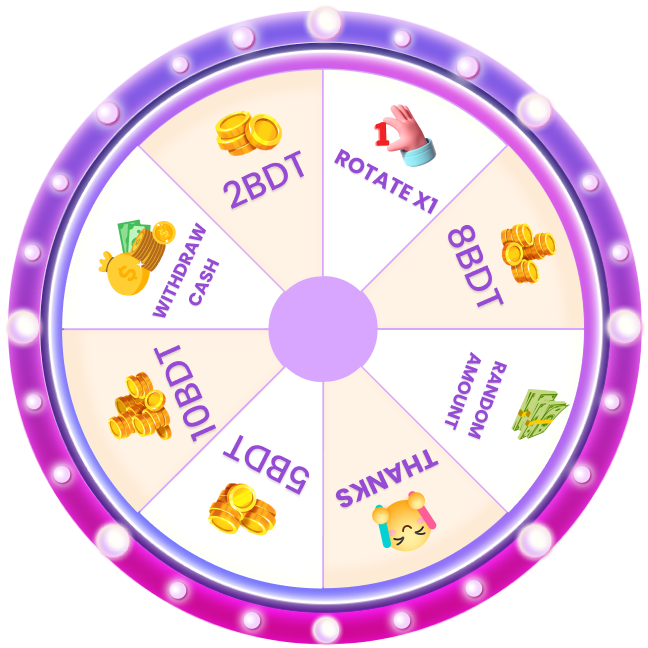
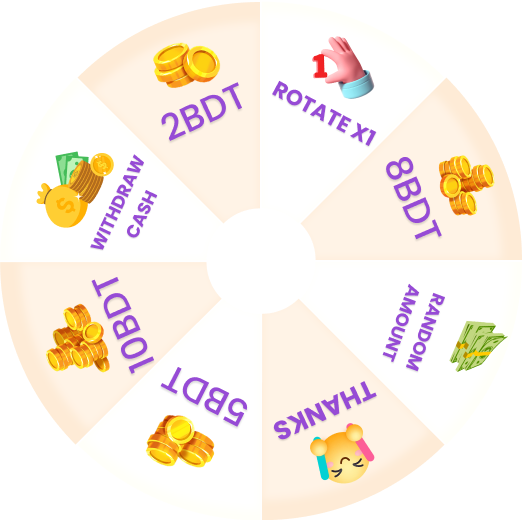
feat: [bgd] Draft for new wheel promo

diff --git a/bgd-static-v1/src/components/hotpromo/referSpinWheel/ReferSpinWheel.vue b/bgd-static-v1/src/components/hotpromo/referSpinWheel/ReferSpinWheel.vue
@@ -5,7 +5,17 @@
             <div class="balance">
               <div>当前额度(BDT)</div>
               <div class="balance-info">
-                  <div class="amount">95.13</div><img class="money-icon" src="../../../assets/images/promotion/hotpromo/refer-spinwheel/money-pile-icon.png"/>
+                  <div class="amount">
+                    <svg class="gradient-amount-wrapper" preserveAspectRatio='xMinYMin' xmlns="http://www.w3.org/2000/svg">
+                      <defs>
+                          <linearGradient id="gradientAmount" gradientTransform="rotate(90)">
+                              <stop offset="0%"  stop-color="#FDEE4F"/>
+                              <stop offset="100%" stop-color="#FF953E"/>
+                          </linearGradient>
+                      </defs>
+                      <text id="test"  x="0" y="45" class="amount">95.13</text>
+                  </svg>
+                  </div><img class="money-icon" src="../../../assets/images/promotion/hotpromo/refer-spinwheel/money-pile-icon.png"/>
               </div>
           </div>
           <div class="primary-bg withdraw-btn center">
@@ -140,17 +150,7 @@
     </div>
   
     <q-dialog v-model="showPrizePopup" backdrop-filter="none">
-      <div class="prize-popup">
-        <q-btn icon="close" flat round dense v-close-popup class="q-ml-auto" />
-        <div class="prize-gold">
-          <img src="./../../../assets/images/promotion/hotpromo/refer-spinwheel/prize-gold.png" width="80" />
-          <div>{{ $t("hotPromo.referWheel.congratulations") }}</div>
-        </div>
-  
-        <div class="prize-amount">{{ store.currency.label }} {{ prizePopupBonusAmt }}</div>
-  
-        <q-btn no-caps unelevated class="btn-primary" @click="showPrizePopup = false">{{ $t("btn.confirm") }}</q-btn>
-      </div>
+      <PrizePopup />
     </q-dialog>
   </template>
   <script setup>
@@ -160,6 +160,7 @@
   import moment from "moment";
   import { useI18n } from "vue-i18n";
   import { userStore } from "src/stores";
+import PrizePopup from "./PrizePopup.vue";
   
   const { t } = useI18n();
   const $q = useQuasar();
@@ -179,7 +180,7 @@
   
   const spinButtonDisable = ref(false);
   const degreesToStopAt = ref([]);
-  const showPrizePopup = ref(false);
+  const showPrizePopup = ref(true);
   const prizePopupBonusAmt = ref();
   const remainingDraws = ref(0);
   const winnersList = ref([]);
@@ -278,24 +279,24 @@
   
   const spinWheel = () => {
     //FOr TesTING START
-    // const res = {
-    //   data: {
-    //     bonusAmount: 999999,
-    //     availableSpin: 0
-    //   }
-    // }
-    // var bonusIndex = res.data.bonusAmount;
-    // if (res.data.type === "CONSOLATION") {
-    //   bonusIndex = -1;
-    // }
-    // const prizeIndex = SPIN_WHEEL_PRIZES.findIndex((prize) => prize === bonusIndex);
+    const res = {
+      data: {
+        bonusAmount: 999999,
+        availableSpin: 0
+      }
+    }
+    var bonusIndex = res.data.bonusAmount;
+    if (res.data.type === "CONSOLATION") {
+      bonusIndex = -1;
+    }
+    const prizeIndex = SPIN_WHEEL_PRIZES.findIndex((prize) => prize === bonusIndex);
     
-    // spin(prizeIndex, () => {
-    //   showPrizePopup.value = true;
-    //   prizePopupBonusAmt.value = res.data.bonusAmount;
-    //   remainingDraws.value = res.data.availableSpin;
-    // });
-    // return;
+    spin(prizeIndex, () => {
+      showPrizePopup.value = true;
+      prizePopupBonusAmt.value = res.data.bonusAmount;
+      remainingDraws.value = res.data.availableSpin;
+    });
+    return;
     //FOr TesTING END
   
     if (spinButtonDisable.value === true) {
@@ -418,15 +419,23 @@
             display: flex;
             align-items: center;
             gap: 15px;
-            
-            .amount {
-                color: #FE9D32;
-                font-size: 35px;
+
+            .gradient-amount-wrapper {
+              max-height: 55px;
+              max-width: 130px;
+
+              .amount {
+                font-size: 50px;
+                fill:url(#gradientAmount);
+                text-shadow: 3px 3px #A00022;
+                font-family: 'Poppins';
+                font-weight: 500;
+              }
+
             }
 
             .money-icon {
-              width: 42px;
-              height: 36px;
+              width: 55px;
             }
           }
         }
@@ -645,7 +654,7 @@
     margin: 0 auto;
     background: url(../../../assets/images/promotion/hotpromo/refer-spinwheel/spin-wheel-frame.png) no-repeat center
       center;
-    background-size: 115%;
+    background-size: 100%;
   }
   
   .wheel-frame {
@@ -671,10 +680,10 @@
   .spin-wheel {
     position: absolute;
     z-index: 2;
-    top: 0px;
-    left: 0px;
-    width: 330px;
-    height: 330px;
+    top: 35px;
+    left: 35px;
+    width: 260px;
+    height: 260px;
   }
   
   .wheel-bg {

diff --git a/bgd-static-v1/src/components/hotpromo/referSpinWheel/PrizePopup.vue b/bgd-static-v1/src/components/hotpromo/referSpinWheel/PrizePopup.vue
@@ -1,0 +1,159 @@
+<template>
+    <div class="congrats-container">
+      <q-btn icon="close" round dense v-close-popup class="congrats-close" />
+      <div class="congrats-header"><img src="../../../assets/images/index/modal/congrats-header.png" /></div>
+      <div class="congrats-coupons">
+        <img class="light-source" src="./../../../assets/images/promotion/hotpromo/refer-spinwheel/light-source.png" />
+        <div class="congrats-highlight">
+            <img class="money-icon" src="../../../assets/images/promotion/hotpromo/refer-spinwheel/money-pile-icon.png"/>
+            <svg class="gradient-amount-wrapper" preserveAspectRatio='xMinYMin' xmlns="http://www.w3.org/2000/svg">
+                <defs>
+                    <linearGradient id="gradientAmount" gradientTransform="rotate(90)">
+                        <stop offset="0%"  stop-color="#FDEE4F"/>
+                        <stop offset="100%" stop-color="#FF953E"/>
+                    </linearGradient>
+                </defs>
+                <text id="test"  x="0" y="43" class="amount">300</text>
+            </svg>
+        </div>
+    </div>
+
+      <div class="congrats-title">{{ $t("hotPromo.referWheel.withdrawSuccessfully") }}</div>
+
+      <div class="congrats-button">
+        <router-link to="/promo?name=bgd-register-claim-bonus">
+          <q-btn no-caps unelevated class="recharge-btn" :loading="false">
+            {{ $t("hotPromo.referWheel.recharge") }}
+          </q-btn>
+        </router-link>
+      </div>
+    </div>
+  </template>
+  
+  <script setup></script>
+  
+  <style lang="scss" scoped>
+
+.gradient-amount-wrapper {
+    max-height: 55px;
+    max-width: 100px;
+
+    .amount {
+        font-size: 50px;
+        fill:url(#gradientAmount);
+        text-shadow: 3px 3px #A00022;
+        font-family: 'Poppins';
+        font-weight: 700;
+    }
+}
+  .congrats-button {
+    position: absolute;
+    bottom: -60px;
+    left: 50%;
+    transform: translateX(-50%);
+    white-space: nowrap;
+  }
+  .congrats-wrapper {
+    overflow: hidden;
+    display: flex;
+    flex-direction: column;
+    gap: 20px;
+    align-items: center;
+  }
+  .congrats-container {
+    background-color: #1e371f;
+    border: 1px solid #337e3a;
+    border-radius: 10px !important;
+    max-width: 400px;
+    width: 100%;
+    padding: 16px;
+    position: relative;
+    overflow: visible;
+    border-radius: 12px;
+  
+    &:before {
+      content: "";
+      background-image: url(../../../assets/images/index/modal/congrats-container-light.png);
+      background-size: 100% 100%;
+      background-position: center center;
+      background-repeat: no-repeat;
+      width: 100%;
+      height: 150px;
+      position: absolute;
+      left: 0;
+      top: -150px;
+    }
+  
+    .congrats-header {
+      display: flex;
+      justify-content: center;
+      margin-top: -18px;
+      z-index: 2;
+  
+      img {
+        display: block;
+        width: 100%;
+        max-width: 320px;
+      }
+    }
+  
+    .congrats-coupons {
+      .light-source {
+        display: block;
+        width: 100%;
+        margin: auto;
+        max-width: 300px;
+      }
+    }
+  
+    .congrats-title {
+      color: #ffffff;
+      display: flex;
+      justify-content: center;
+      font-size: 18px;
+      font-weight: bold;
+    }
+  
+    .congrats-highlight {
+      color: #fff96f;
+      font-size: 45px;
+      text-align: center;
+      background-image: url(../../../assets/images/index/modal/congrats-highlight-bg.png);
+      padding: 0 12px;
+      background-repeat: no-repeat;
+      background-size: 70% 100%;
+      background-position: center;
+      position: absolute;
+      display: flex;
+      align-items: center;
+      justify-content: center;
+      width: 100%;
+      gap: 10px;
+        top: 55%;
+        left: 50%;
+        transform: translate(-50%, -50%);
+        padding: 10px 0;
+
+        .money-icon {
+            width: 80px;
+        }
+    }
+  }
+  
+  .congrats-close {
+    position: absolute;
+    top: 10px;
+    right: 10px;
+    background: rgba(255, 255, 255, 0.1);
+  }
+  
+  .recharge-btn {
+    background: linear-gradient(90deg, #24ee89 0%, #9fe871 100%);
+    border-radius: 10px;
+    font-weight: 700;
+    font-size: 16px;
+    line-height: 24px;
+    color: #000a01;
+  }
+  </style>
+  

diff --git a/bgd-static-v1/src/i18n/en.js b/bgd-static-v1/src/i18n/en.js
@@ -643,7 +643,9 @@ export default {
     },
     referWheel: {
       remainingDrawTimes: "Remaining times",
-      congratulations: "Congratulations"
+      congratulations: "Congratulations",
+      withdrawSuccessfully: "Withdraw successfully",
+      recharge: "Recharge"
     },
     signIn7Days: {
       continuousSignIn: "Continuous sign-in:",
